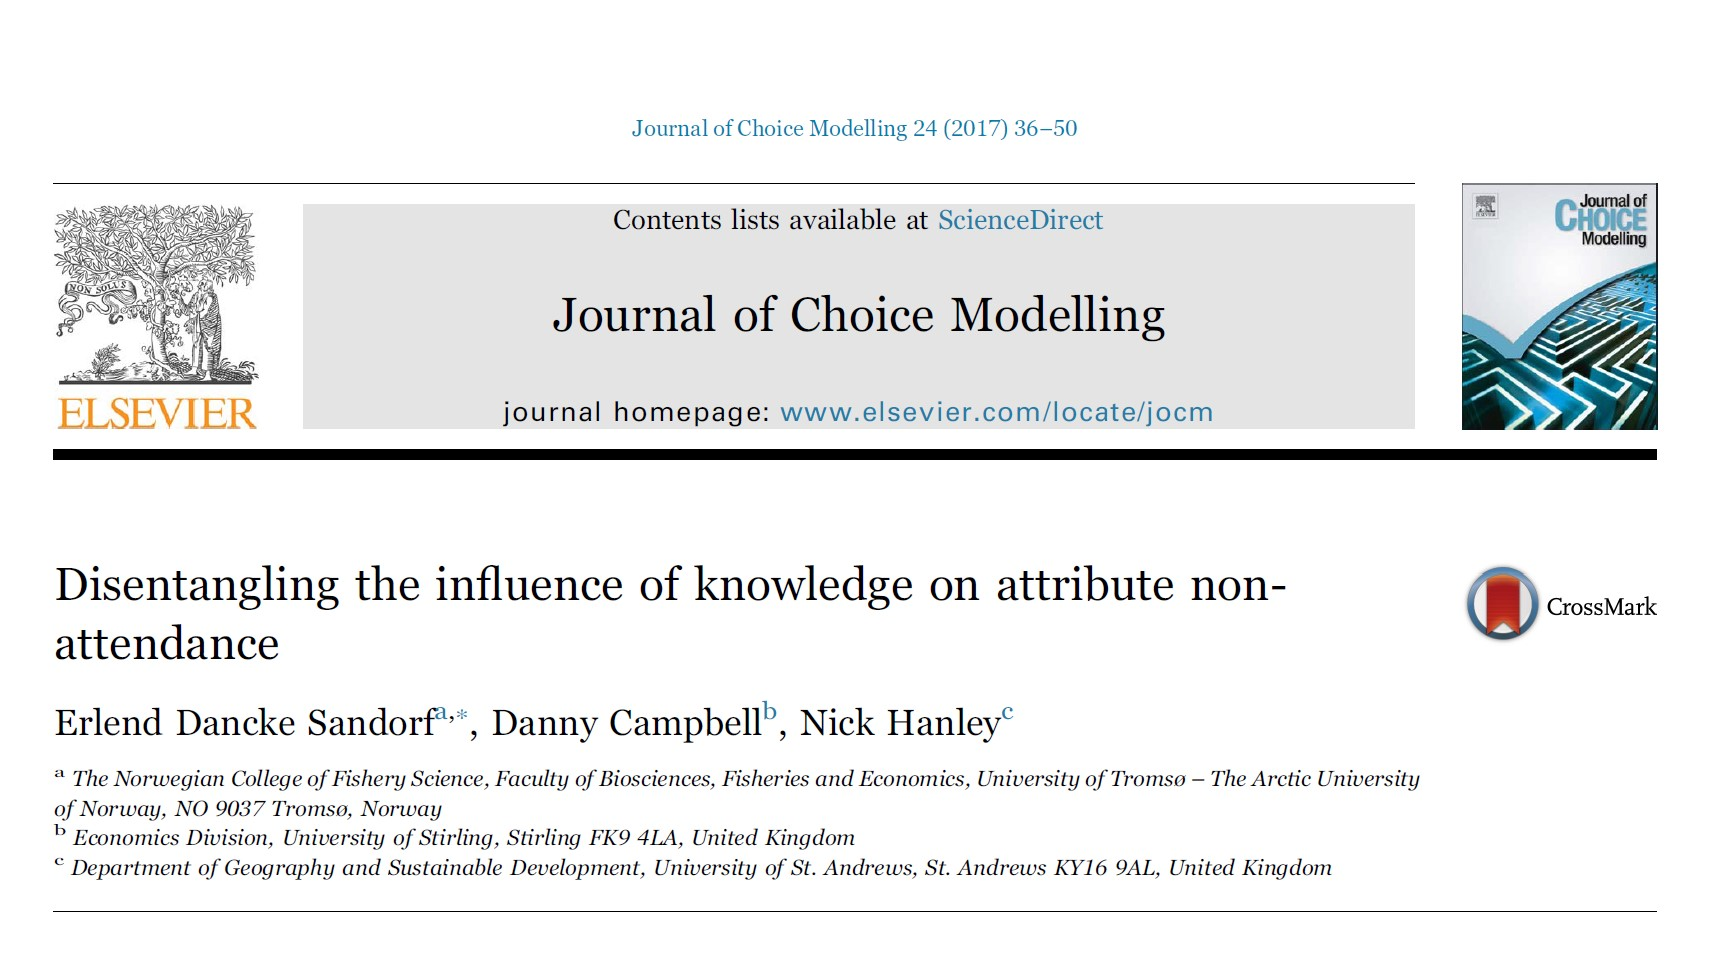
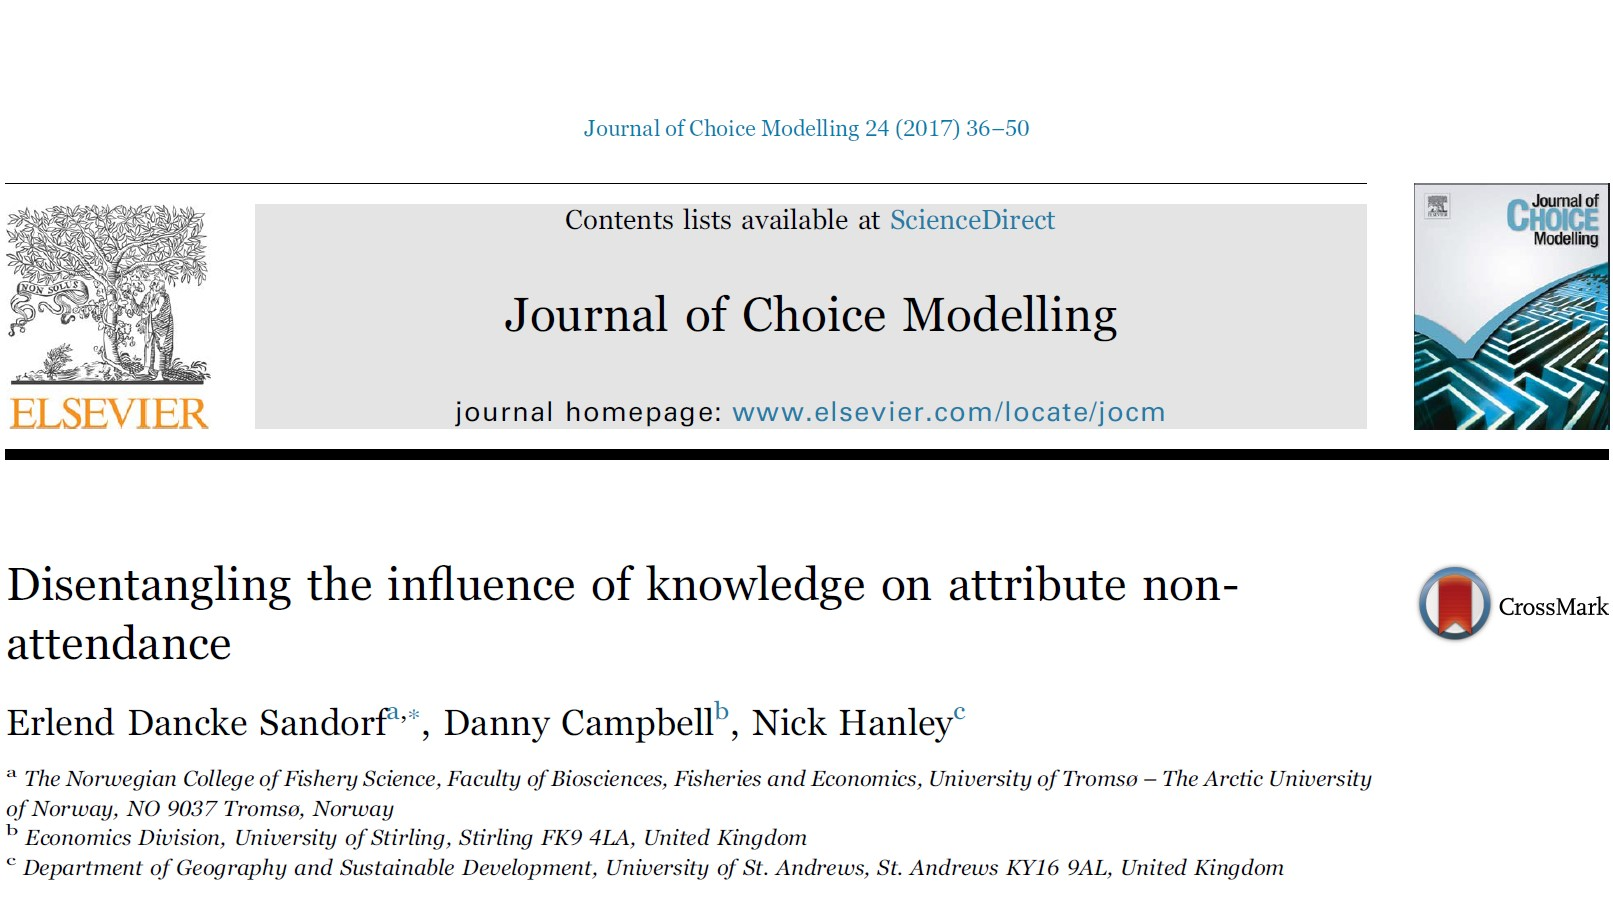
Updated publication list, added images and worked on layout

diff --git a/_layouts/pubs.html b/_layouts/pubs.html
@@ -3,7 +3,7 @@ layout: default
 ---
 
   <div class = "container">
-    <div class = "row">
+    <div class = "row mt-4">
       <div class = "col-sm-12">
         <h1> {{ page.title }} </h1> <br>
         <p>
@@ -15,8 +15,12 @@ layout: default
         </p>
       </div>
     </div>
+    
+    <div class = "row">
+      <img class = "img-fluid img-max-400 d-block mx-auto float-left mb-3" src = "{{ site.baseurl }}/assets/img/{{ page.image }}">
+    </div>  
       
-      <img class = "rounded img-fluid img-thumbnail float-left img-size-500" src = "{{ site.baseurl }}/assets/img/{{ page.image }}">
+      
 
       <p>
         {{ content }}

diff --git a/_includes/pubs_card.html b/_includes/pubs_card.html
@@ -1,5 +1,5 @@
 <div class = "col-sm">
-  <div class = "card mt-2">
+  <div class = "card border-0 mt-2">
     
     <img src = "{{ site.baseurl }}/assets/img/{{ pubs.image }}" class = "card-img-top" alt = "...">
     <div class = "card-body">

diff --git a/_sass/main.scss b/_sass/main.scss
@@ -47,6 +47,12 @@ body > * {
 }
 */
 
+/* IMAGE SIZES POSTS */
+.img-max-400 {
+  max-height: 400px;
+  width: 100%;
+}
+
 /*  SEARCH */
 #searchButton{
   float:right;

diff --git a/_pubs/2018-05-08-ee.md b/_pubs/2018-05-08-ee.md
@@ -1,0 +1,11 @@
+---
+title: "Accounting for elimination-by-aspects strategies and demand management in electricity contract choice"
+author: Erlend
+category: journal article
+tags: discrete choice experiment electricity contract willingness-to-accept houshold elimination-by-aspects
+image: 2018-05-08-ee.jpg
+---
+
+In this paper, we report on a discrete choice experiment aimed at eliciting Swedish households’ willingness-to-accept a compensation for restrictions on household electricity and heating use during peak hours.
+
+When analyzing data from discrete choice experiments it is typically assumed that people make rational utility maximizing decisions, i.e., that they consider all of the attribute information and compare all alternatives. However, mounting evidence shows that people use a wide range of simplifying strategies that are inconsistent with utility maximization. We use a flexible model capturing a two-stage decision process. In the first stage, respondents are allowed to eliminate from their choice set alternatives that contain an unacceptable level, in this case restrictions on the use of heating and electricity. In the second stage, respondents choose in a compensatory manner between the remaining alternatives. Our results show that about half of the respondents choose according to an elimination-by-aspects strategy, and that, on average, they are unwilling to accept any restrictions on heating in the evening or electricity use irrespective of time-of-day. Furthermore, considering elimination-by-aspects behavior leads to a downward shift in elicited willingness-to-accept. We discuss implications for policy.

diff --git a/_pubs/2018-02-17-jocm.md b/_pubs/2018-02-17-jocm.md
@@ -1,0 +1,22 @@
+---
+title: "The effect of attriute-alternative matrix displays on preferences and processing strategies"
+author: Erlend
+category: journal article
+tags: display orientation elimination-by-aspects random regret minimization discrete choice experiments attribute non-attendance
+image: 2018-02-17-jocm.jpg
+---
+
+When analyzing discrete choice data we assume that respondents compare alternatives and make a utility maximizing choice.
+
+The majority of DCEs use a matrix display with one row per attribute
+and one column per alternative. A comparison by alternatives implies that respondents process the
+choice task column-by-column. However, evidence from psychology and judgment and decision
+making research suggest that learned reading patterns dominate and as such the standard matrix
+display might induce processing by attributes rather than alternatives. We test this using a split
+sample survey conducted in France where respondents were randomly allocated into a standard or
+transposed matrix display group. Our results show that there is no difference in relative scale
+between the two groups, but that elicited preferences differ. Importantly, ASCs are insignificant in
+the transposed condition. We find no difference in propensity to use simplifying strategies, but
+respondents in the standard display condition are more likely to choose according to a random
+regret minimization (RRM) model rather than random utility model (RUM). We discuss the implications
+of our findings for future discrete choice experiments.

diff --git a/_pubs/2016-06-14-ecol-econ.md b/_pubs/2016-06-14-ecol-econ.md
@@ -2,10 +2,10 @@
 title: "Valuing unfamiliar and complex environmental goods: A comparison of valuation workshops and internet panel surveys with videos"
 author: Erlend
 category: journal article
-tags: internet survey valuation workshop environmental ecosystem services
+tags: internet survey valuation workshop environmental ecosystem services cold water coral consequentiality
 image: 2016-06-14-ecol-econ.jpg
 ---
 
 We compare two discrete choice experiments eliciting willingness-to-pay (WTP) for increased cold-water coral protection in Norway using valuation workshops and an internet panel survey with videos. 
 
-This is the main text
+The video presentation provides the same visual presentation of information about the good and valuation task as in the valuation workshop. In doing so, we are the first to compare these survey modes. The two survey modes perform equally well with respect to sampling, but the internet survey gives significantly lower WTP estimates. We identify a large number of status quo (SQ) choosers in the internet survey that partly explain this result. Furthermore, respondents who speed through the survey questionnaire, and believe the survey to be inconsequential are more likely to be SQ choosers. While an internet survey is a fast and cost-effective way of obtaining a representative population sample, the potential biases in the valuation of complex and unknown environmental goods outlined here should be carefully addressed in future internet panel surveys.

diff --git a/_pubs/2018-07-20-erae.md b/_pubs/2018-07-20-erae.md
@@ -1,0 +1,11 @@
+---
+title: "Accommodating satisficing behavior in stated choice experiments"
+author: Erlend
+category: journal article
+tags: random utility maximization satisficing stated discrete choice experiments
+image: 2018-07-20-erae.jpg
+---
+
+Accumulating evidence suggests that respondents in stated choice experiments use simplifying strategies. Such behaviour is a deviation from random utility theory and can lead to wrong inferences regarding preferences.
+
+This is a first attempt to systematically explore satisficing in stated choice experiments. We consider 944 satisficing rules and allow respondents to revise the rules adopted throughout the choice sequence. Only a minority of respondents used the same satisficing rule across the entire sequence. Allowing for updating reveals that the use of the heuristic changes over the choice sequence. Considering satisficing behaviour leads to improved model fits and different marginal willingness-to-pay estimates.

diff --git a/_pubs/2017-05-18-ocean-and-coastal.md b/_pubs/2017-05-18-ocean-and-coastal.md
@@ -8,4 +8,10 @@ image: 2017-05-18-ocean-and-coastal.jpg
 
 It is well-known that operating within the boundaries of a national park provides commercial actors with the opportunity to charge a price premium, though this has to a lesser degree been demonstrated for marine protected areas. 
 
-This is the main text
+We estimate national tourists' willingness-to-pay a price premium for boat trips
+in the Nha Trang Bay Marine Protected Are, Vietnam, using a discrete choice experiment. Our results
+show that tourists are willing to pay an average price premium of 18 USD per trip for a large
+improvement in environmental quality, and that avoiding the loss of jobs for local fishermen is of minor
+importance. Furthermore, the economic benefits generated from management scenarios that combine
+biodiversity restoration and environmental quality improvement within the reserve sufficient to cover
+additional costs of such improvements.

diff --git a/_pubs/2018-10-25-ere.md b/_pubs/2018-10-25-ere.md
@@ -1,9 +1,9 @@
 ---
-title: Disentangling the influence of knowledge on attribute non-attendance
+title: "Did you miss something? Inattentive Respondents in Discrete Choice Experiments"
 author: Erlend
 category: journal article
-tags: attribute non-attendance knowledge choice modeling 
-image: 2016-09-06-jocm.jpg
+tags: discrete choice experiments latent class internet panels inattentive bias attribute non-attendance
+image: 2018-10-25-ere.jpg
 ---
 
 We seek to disentangle the effect of knowledge about an environmental good on respondents' propensity to ignore one or more attributes on the choice cards in a discrete choice experiment eliciting people's preferences for increased protection of cold-water corals in Norway.
